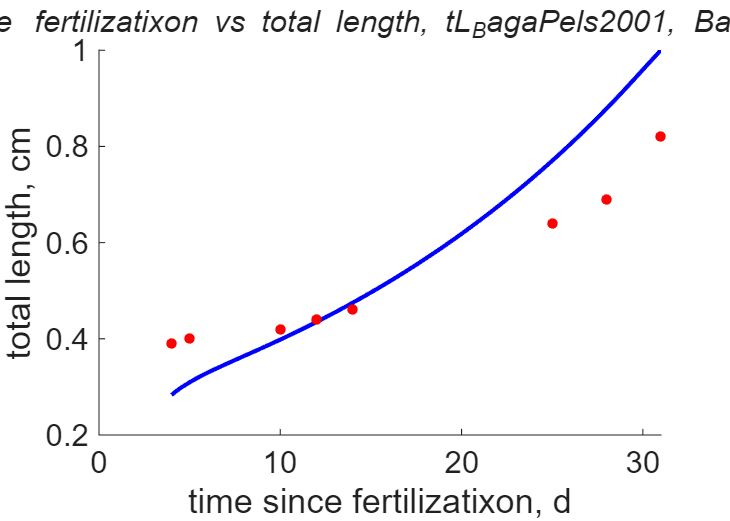
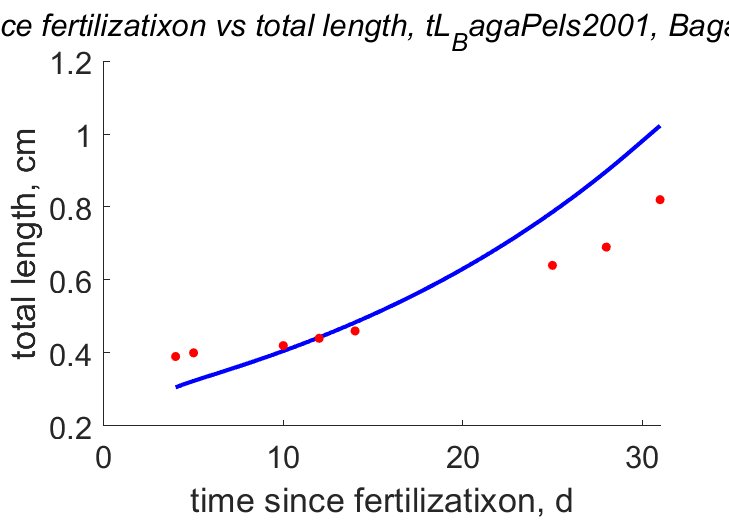
Updated data moderate estimation results

diff --git a/data_moderate/Danio_rerio_res.html b/data_moderate/Danio_rerio_res.html
@@ -44,7 +44,7 @@
   </div>
 
   <div class="par">
-  <h4>COMPLETE = 4.6; MRE =    0.116; SMAE =    0.139; SMSE =    0.022 </h4>
+  <h4>COMPLETE = 4.6; MRE =    0.124; SMAE =    0.148; SMSE =    0.027 </h4>
   </div>
 
   <p class="clear"></p>
@@ -53,30 +53,29 @@
   <h2>Data & predictions</h2>
   <TABLE id="prd">
     <TR  class="head"><TH>data</TH> <TH>prd</TH> <TH>RE</TH>  <TH>symbol</TH> <TH>units</TH> <TH>description</TH> </TR>
-    <TR><TD>  5</TD> <TD>4.486</TD> <TD>0.1029</TD> <TD>ab</TD> <TD>d</TD> <TD>age at birth</TD></TR>
-    <TR><TD> 22</TD> <TD>19.24</TD> <TD>0.1256</TD> <TD>aj</TD> <TD>d</TD> <TD>age at metam</TD></TR>
-    <TR><TD> 75</TD> <TD>70.24</TD> <TD>0.06353</TD> <TD>ap</TD> <TD>d</TD> <TD>age at puberty</TD></TR>
-    <TR><TD>1642</TD> <TD>1642</TD> <TD>3.92e-05</TD> <TD>am</TD> <TD>d</TD> <TD>life span</TD></TR>
-    <TR><TD>0.4</TD> <TD>0.297</TD> <TD>0.2574</TD> <TD>Lb</TD> <TD>cm</TD> <TD>total length at birth</TD></TR>
-    <TR><TD>  1</TD> <TD>0.9761</TD> <TD>0.02386</TD> <TD>Lj</TD> <TD>cm</TD> <TD>total length at metam</TD></TR>
-    <TR><TD>3.25</TD> <TD>3.57</TD> <TD>0.09853</TD> <TD>Lp</TD> <TD>cm</TD> <TD>total length at puberty</TD></TR>
-    <TR><TD>  5</TD> <TD>5.388</TD> <TD>0.07757</TD> <TD>Li</TD> <TD>cm</TD> <TD>ultimate total length</TD></TR>
-    <TR><TD>  1</TD> <TD>1.212</TD> <TD>0.2123</TD> <TD>Wwi</TD> <TD>g</TD> <TD>ultimate wet weight</TD></TR>
-    <TR><TD>240</TD> <TD>185.9</TD> <TD>0.2255</TD> <TD>Ri</TD> <TD>#/d</TD> <TD>max reproduction</TD></TR>
-    <TR><TD>0.15</TD> <TD>0.163</TD> <TD>0.08644</TD> <TD>GSI</TD> <TD>g/g</TD> <TD>Gonado Somatic Index</TD></TR>
-    <TR><TD colspan="2">see figure</TD> <TD>0.1734</TD> <TD>tL_BagaPels2001</TD> <TD colspan="2">time since fertilizatixon <font color="blue"><i>vs.</i></font> total length</TD>
-    <TR><TD colspan="2">see figure</TD> <TD>0.1555</TD> <TD>tWw_BagaPels2001</TD> <TD colspan="2">time since fertilization <font color="blue"><i>vs.</i></font> wet weight</TD>
-    <TR><TD colspan="2">see figure</TD> <TD>0.128</TD> <TD>tL_BestAdat2010</TD> <TD colspan="2">time since fertilization <font color="blue"><i>vs.</i></font> total length</TD>
-    <TR><TD colspan="2">see figure</TD> <TD>0.06919</TD> <TD>tL_LawrEber2002_high</TD> <TD colspan="2">time since birth <font color="blue"><i>vs.</i></font> total length</TD>
-    <TR><TD colspan="2">see figure</TD> <TD>0.06196</TD> <TD>tL_LawrEber2002_low</TD> <TD colspan="2">time since birth <font color="blue"><i>vs.</i></font> total length</TD>
-    <TR class="psd"><TD>0.02</TD> <TD>0.02081</TD> <TD>0.04025</TD> <TD>psd.v</TD> <TD>cm/d</TD> <TD>energy conductance</TD></TR>
-    <TR class="psd"><TD> 18</TD> <TD>267.3</TD> <TD>13.85</TD> <TD>psd.p_M</TD> <TD>J/d.cm^3</TD> <TD>vol-spec som maint</TD></TR>
+    <TR><TD>  5</TD> <TD>3.879</TD> <TD>0.2242</TD> <TD>ab</TD> <TD>d</TD> <TD>age at birth</TD></TR>
+    <TR><TD> 22</TD> <TD>23.24</TD> <TD>0.05653</TD> <TD>aj</TD> <TD>d</TD> <TD>age at metam</TD></TR>
+    <TR><TD> 75</TD> <TD>73.82</TD> <TD>0.01574</TD> <TD>ap</TD> <TD>d</TD> <TD>age at puberty</TD></TR>
+    <TR><TD>1642</TD> <TD>1654</TD> <TD>0.007028</TD> <TD>am</TD> <TD>d</TD> <TD>life span</TD></TR>
+    <TR><TD>0.4</TD> <TD>0.303</TD> <TD>0.2425</TD> <TD>Lb</TD> <TD>cm</TD> <TD>total length at birth</TD></TR>
+    <TR><TD>  1</TD> <TD>0.9723</TD> <TD>0.02768</TD> <TD>Lj</TD> <TD>cm</TD> <TD>total length at metam</TD></TR>
+    <TR><TD>3.25</TD> <TD>3.272</TD> <TD>0.006654</TD> <TD>Lp</TD> <TD>cm</TD> <TD>total length at puberty</TD></TR>
+    <TR><TD>  5</TD> <TD>5.997</TD> <TD>0.1993</TD> <TD>Li</TD> <TD>cm</TD> <TD>ultimate total length</TD></TR>
+    <TR><TD>  1</TD> <TD>1.224</TD> <TD>0.2237</TD> <TD>Wwi</TD> <TD>g</TD> <TD>ultimate wet weight</TD></TR>
+    <TR><TD>240</TD> <TD>180.7</TD> <TD>0.2473</TD> <TD>Ri</TD> <TD>#/d</TD> <TD>max reproduction</TD></TR>
+    <TR><TD>0.15</TD> <TD>0.1677</TD> <TD>0.1177</TD> <TD>GSI</TD> <TD>g/g</TD> <TD>Gonado Somatic Index</TD></TR>
+    <TR><TD colspan="2">see figure</TD> <TD>0.1782</TD> <TD>tL_BagaPels2001</TD> <TD colspan="2">time since fertilizatixon <font color="blue"><i>vs.</i></font> total length</TD>
+    <TR><TD colspan="2">see figure</TD> <TD>0.1608</TD> <TD>tWw_BagaPels2001</TD> <TD colspan="2">time since fertilization <font color="blue"><i>vs.</i></font> wet weight</TD>
+    <TR><TD colspan="2">see figure</TD> <TD>0.1613</TD> <TD>tL_BestAdat2010</TD> <TD colspan="2">time since fertilization <font color="blue"><i>vs.</i></font> total length</TD>
+    <TR><TD colspan="2">see figure</TD> <TD>0.06459</TD> <TD>tL_LawrEber2002_high</TD> <TD colspan="2">time since birth <font color="blue"><i>vs.</i></font> total length</TD>
+    <TR><TD colspan="2">see figure</TD> <TD>0.05403</TD> <TD>tL_LawrEber2002_low</TD> <TD colspan="2">time since birth <font color="blue"><i>vs.</i></font> total length</TD>
+    <TR class="psd"><TD>0.02</TD> <TD>0.02774</TD> <TD>0.3868</TD> <TD>psd.v</TD> <TD>cm/d</TD> <TD>energy conductance</TD></TR>
+    <TR class="psd"><TD> 18</TD> <TD>139.6</TD> <TD>6.757</TD> <TD>psd.p_M</TD> <TD>J/d.cm^3</TD> <TD>vol-spec som maint</TD></TR>
     <TR class="psd"><TD>0.002</TD> <TD>0.002</TD> <TD>  0</TD> <TD>psd.k_J</TD> <TD>1/d</TD> <TD>maturity maint rate coefficient</TD></TR>
-    <TR class="psd"><TD>0.3</TD> <TD>0.03911</TD> <TD>0.8696</TD> <TD>psd.k</TD> <TD>-</TD> <TD>maintenance ratio</TD></TR>
-    <TR class="psd"><TD>0.8</TD> <TD>0.3787</TD> <TD>0.5266</TD> <TD>psd.kap</TD> <TD>-</TD> <TD>allocation fraction to soma</TD></TR>
-    <TR class="psd"><TD>0.8</TD> <TD>0.8007</TD> <TD>0.000879</TD> <TD>psd.kap_G</TD> <TD>-</TD> <TD>growth efficiency</TD></TR>
+    <TR class="psd"><TD>0.3</TD> <TD>0.07401</TD> <TD>0.7533</TD> <TD>psd.k</TD> <TD>-</TD> <TD>maintenance ratio</TD></TR>
+    <TR class="psd"><TD>0.8</TD> <TD>0.3053</TD> <TD>0.6184</TD> <TD>psd.kap</TD> <TD>-</TD> <TD>allocation fraction to soma</TD></TR>
+    <TR class="psd"><TD>0.8</TD> <TD>0.8098</TD> <TD>0.01226</TD> <TD>psd.kap_G</TD> <TD>-</TD> <TD>growth efficiency</TD></TR>
     <TR class="psd"><TD>0.95</TD> <TD>0.95</TD> <TD>  0</TD> <TD>psd.kap_R</TD> <TD>-</TD> <TD>reproduction efficiency</TD></TR>
-    <TR class="psd"><TD>0.01</TD> <TD>0.002338</TD> <TD>0.7662</TD> <TD>psd.s_s</TD> <TD>-</TD> <TD>supply stress</TD></TR>
   </TABLE>
   </div>
 
@@ -86,29 +85,29 @@
     <TR class="head"><TH>symbol</TH> <TH>units</TH> <TH>value</TH>  <TH>free</TH> <TH>description</TH> </TR>
     <TR><TD>T_ref</TD> <TD>K</TD> <TD>293.1</TD> <TD>0</TD> <TD>Reference temperature</TD></TR>
     <TR><TD>T_A</TD> <TD>K</TD> <TD>8000</TD> <TD>0</TD> <TD>Arrhenius temp</TD></TR>
-    <TR><TD>z</TD> <TD>-</TD> <TD>0.2023</TD> <TD>1</TD> <TD>zoom factor</TD></TR>
+    <TR><TD>z</TD> <TD>-</TD> <TD>0.2343</TD> <TD>1</TD> <TD>zoom factor</TD></TR>
     <TR><TD>F_m</TD> <TD>l/d.cm^2</TD> <TD>6.5</TD> <TD>0</TD> <TD>{F_m}, max spec searching rate</TD></TR>
     <TR><TD>kap_X</TD> <TD>-</TD> <TD>0.8</TD> <TD>0</TD> <TD>digestion efficiency of food to reserve</TD></TR>
     <TR><TD>kap_P</TD> <TD>-</TD> <TD>0.1</TD> <TD>0</TD> <TD>faecation efficiency of food to faeces</TD></TR>
-    <TR><TD>v</TD> <TD>cm/d</TD> <TD>0.02081</TD> <TD>1</TD> <TD>energy conductance</TD></TR>
-    <TR><TD>kap</TD> <TD>-</TD> <TD>0.3787</TD> <TD>1</TD> <TD>allocation fraction to soma</TD></TR>
+    <TR><TD>v</TD> <TD>cm/d</TD> <TD>0.02774</TD> <TD>1</TD> <TD>energy conductance</TD></TR>
+    <TR><TD>kap</TD> <TD>-</TD> <TD>0.3053</TD> <TD>1</TD> <TD>allocation fraction to soma</TD></TR>
     <TR><TD>kap_R</TD> <TD>-</TD> <TD>0.95</TD> <TD>0</TD> <TD>reproduction efficiency</TD></TR>
-    <TR><TD>p_M</TD> <TD>J/d.cm^3</TD> <TD>267.3</TD> <TD>1</TD> <TD>[p_M], vol-spec somatic maint</TD></TR>
+    <TR><TD>p_M</TD> <TD>J/d.cm^3</TD> <TD>139.6</TD> <TD>1</TD> <TD>[p_M], vol-spec somatic maint</TD></TR>
     <TR><TD>p_T</TD> <TD>J/d.cm^2</TD> <TD>  0</TD> <TD>0</TD> <TD>{p_T}, surf-spec somatic maint</TD></TR>
     <TR><TD>k_J</TD> <TD>1/d</TD> <TD>0.002</TD> <TD>0</TD> <TD>maturity maint rate coefficient</TD></TR>
-    <TR><TD>E_G</TD> <TD>J/cm^3</TD> <TD>5226</TD> <TD>1</TD> <TD>[E_G], spec cost for structure</TD></TR>
-    <TR><TD>E_Hb</TD> <TD>J</TD> <TD>0.4732</TD> <TD>1</TD> <TD>maturity at birth</TD></TR>
-    <TR><TD>E_Hj</TD> <TD>J</TD> <TD>19.65</TD> <TD>1</TD> <TD>maturity at metam</TD></TR>
-    <TR><TD>E_Hp</TD> <TD>J</TD> <TD>1978</TD> <TD>1</TD> <TD>maturity at puberty</TD></TR>
-    <TR><TD>h_a</TD> <TD>1/d^2</TD> <TD>1.571e-09</TD> <TD>1</TD> <TD>Weibull aging acceleration</TD></TR>
+    <TR><TD>E_G</TD> <TD>J/cm^3</TD> <TD>5167</TD> <TD>1</TD> <TD>[E_G], spec cost for structure</TD></TR>
+    <TR><TD>E_Hb</TD> <TD>J</TD> <TD>0.6841</TD> <TD>1</TD> <TD>maturity at birth</TD></TR>
+    <TR><TD>E_Hj</TD> <TD>J</TD> <TD>25.82</TD> <TD>1</TD> <TD>maturity at metam</TD></TR>
+    <TR><TD>E_Hp</TD> <TD>J</TD> <TD>1482</TD> <TD>1</TD> <TD>maturity at puberty</TD></TR>
+    <TR><TD>h_a</TD> <TD>1/d^2</TD> <TD>1.391e-09</TD> <TD>1</TD> <TD>Weibull aging acceleration</TD></TR>
     <TR><TD>s_G</TD> <TD>-</TD> <TD>0.0001</TD> <TD>0</TD> <TD>Gompertz stress coefficient</TD></TR>
     <TR><TD>V_0</TD> <TD>cm^3</TD> <TD>1e-10</TD> <TD>0</TD> <TD>initial structure of egg</TD></TR>
-    <TR><TD>del_Mt</TD> <TD>-</TD> <TD>0.1234</TD> <TD>1</TD> <TD>shape coefficient for adult</TD></TR>
+    <TR><TD>del_Mt</TD> <TD>-</TD> <TD>0.1254</TD> <TD>1</TD> <TD>shape coefficient for adult</TD></TR>
     <TR><TD>f</TD> <TD>-</TD> <TD>  1</TD> <TD>0</TD> <TD>scaled functional response</TD></TR>
-    <TR><TD>f_BagaPels2001</TD> <TD>-</TD> <TD>0.5528</TD> <TD>1</TD> <TD>scaled functional response of BagaPels2001 data</TD></TR>
-    <TR><TD>f_BestAdat2010</TD> <TD>-</TD> <TD>0.8668</TD> <TD>1</TD> <TD>scaled functional response of BestAdat2010 data</TD></TR>
-    <TR><TD>f_LawrEber2002_high</TD> <TD>-</TD> <TD>0.707</TD> <TD>1</TD> <TD>scaled functional response of LawrEber2002_high data</TD></TR>
-    <TR><TD>f_LawrEber2002_low</TD> <TD>-</TD> <TD>0.484</TD> <TD>1</TD> <TD>scaled functional response of LawrEber2002_low data</TD></TR>
+    <TR><TD>f_BagaPels2001</TD> <TD>-</TD> <TD>0.7459</TD> <TD>1</TD> <TD>scaled functional response of BagaPels2001 data</TD></TR>
+    <TR><TD>f_BestAdat2010</TD> <TD>-</TD> <TD>0.9711</TD> <TD>1</TD> <TD>scaled functional response of BestAdat2010 data</TD></TR>
+    <TR><TD>f_LawrEber2002_high</TD> <TD>-</TD> <TD>0.8112</TD> <TD>1</TD> <TD>scaled functional response of LawrEber2002_high data</TD></TR>
+    <TR><TD>f_LawrEber2002_low</TD> <TD>-</TD> <TD>0.5447</TD> <TD>1</TD> <TD>scaled functional response of LawrEber2002_low data</TD></TR>
   </TABLE>
   </div>
 
